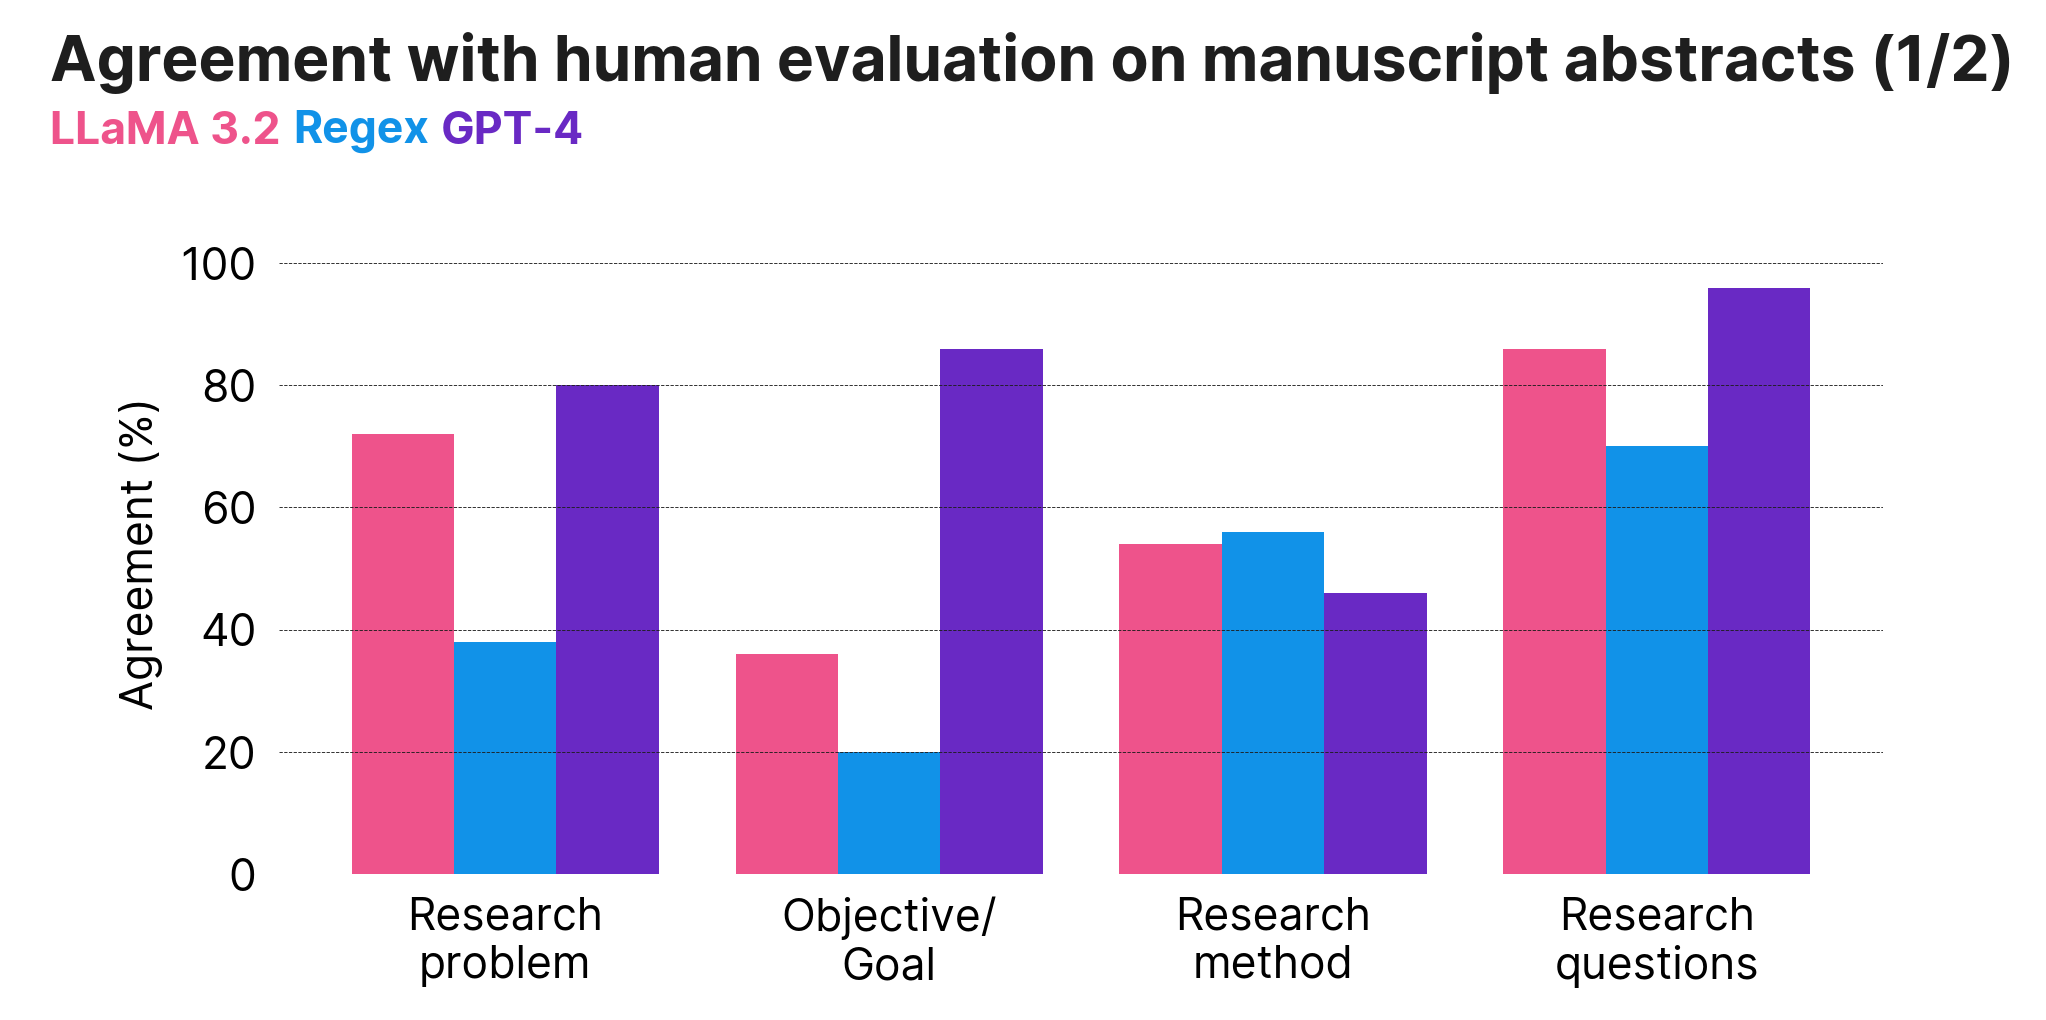
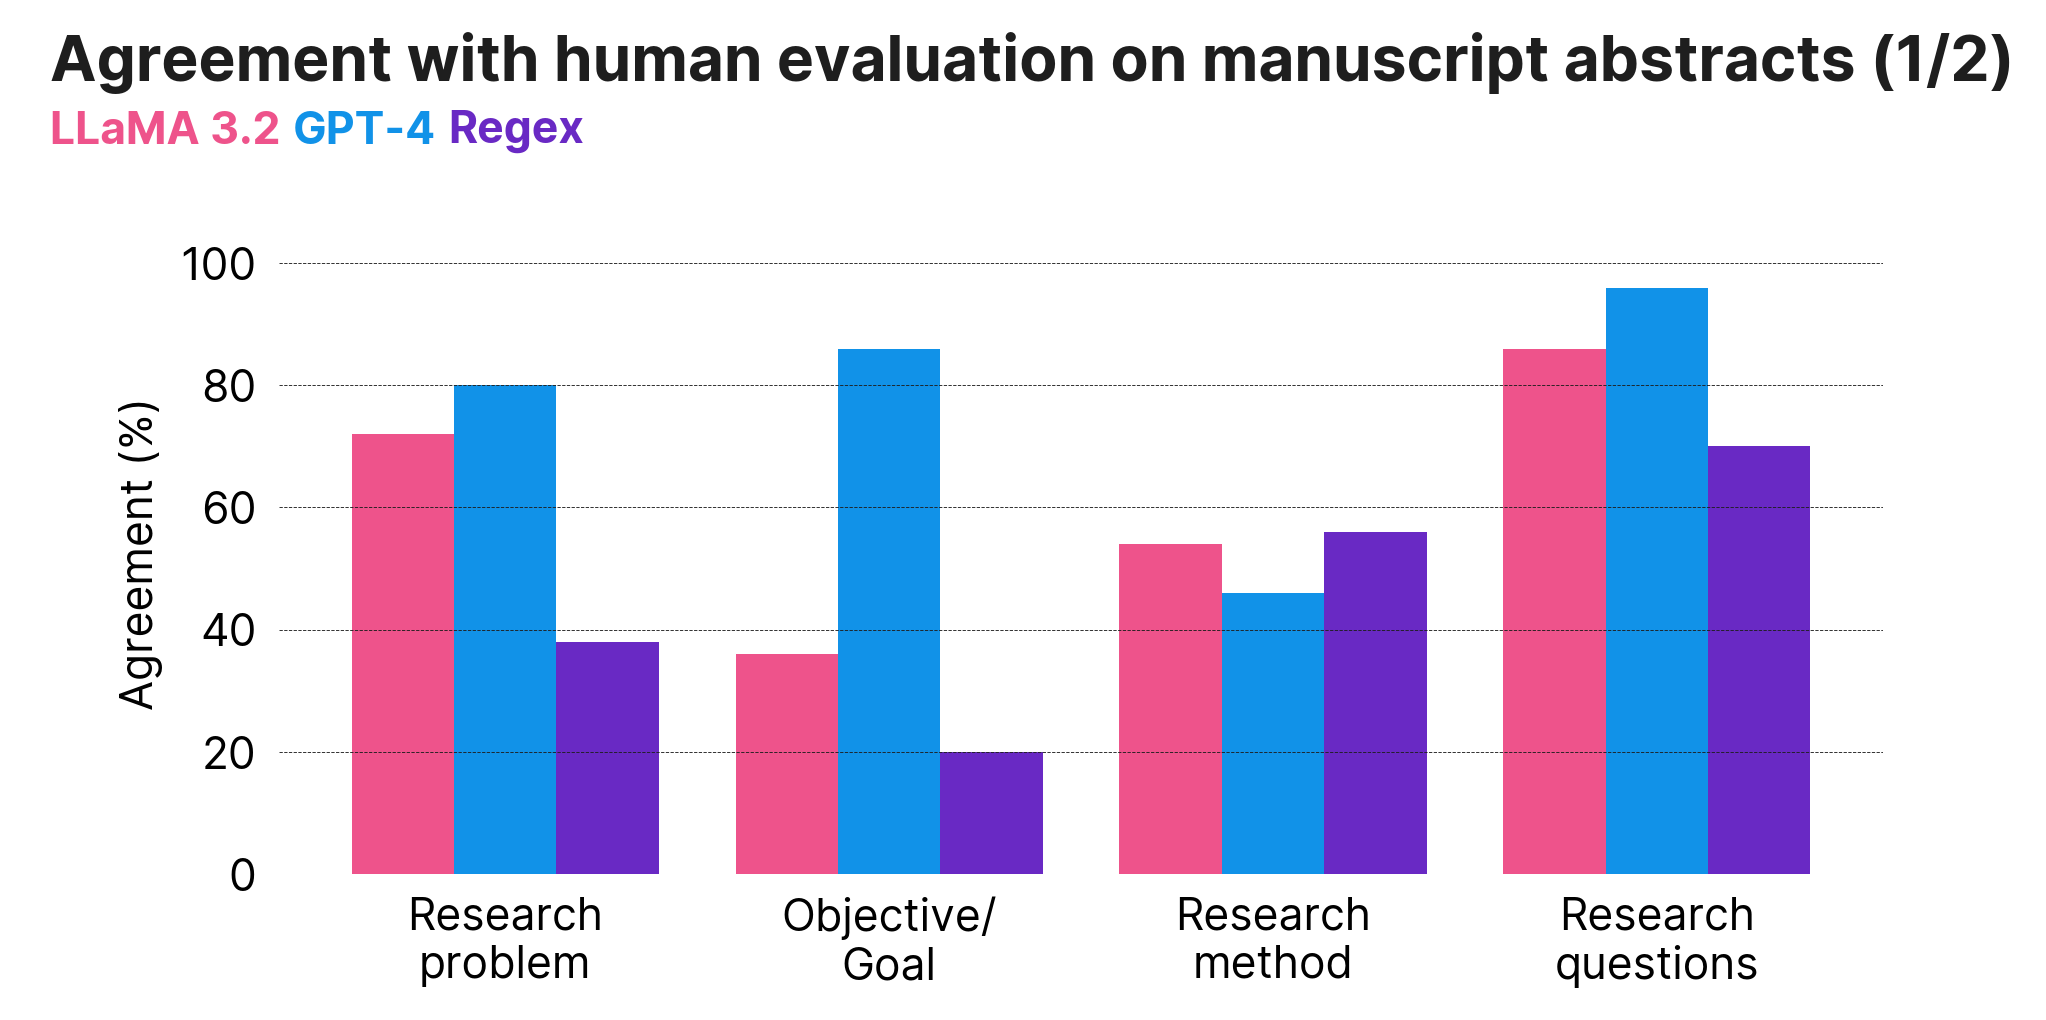
re-add agreement barplots, fix docstrings

diff --git a/src/reproscreener/colors.py b/src/reproscreener/colors.py
@@ -225,31 +225,3 @@ ALERT_DARK = [
     "#f1c21b",  # Yellow 30
     "#24a148"   # Green 50
 ]
-
-# ===== METRIC GROUPING COLORS =====
-
-# Color mappings for metric groups using Carbon Palette 3-color option 1
-METRIC_GROUP_COLORS_LIGHT = {
-    "Method": "#a56eff",    # Purple 50
-    "Data": "#005d5d",      # Teal 70  
-    "Experiment": "#9f1853" # Magenta 70
-}
-
-METRIC_GROUP_COLORS_DARK = {
-    "Method": "#8a3ffc",    # Purple 60
-    "Data": "#08bdba",      # Teal 40
-    "Experiment": "#ff7eb6" # Magenta 40
-}
-
-# ===== CONVENIENCE MAPPINGS =====
-
-# For backwards compatibility with existing code
-carbon_palette_1 = {
-    "LLaMA 3.2": CATEGORICAL_3_LIGHT_OPTION_1[0],  # Purple 50
-    "Regex": CATEGORICAL_3_LIGHT_OPTION_1[1],      # Teal 70
-    "GPT-4": CATEGORICAL_3_LIGHT_OPTION_1[2]       # Magenta 70
-}
-
-# Quick access to commonly used palettes
-CARBON_3_LIGHT_1 = CATEGORICAL_3_LIGHT_OPTION_1
-CARBON_3_DARK_1 = CATEGORICAL_3_DARK_OPTION_1

diff --git a/docs/docstrings.md b/docs/docstrings.md
@@ -14,7 +14,7 @@ It can:
 - Detect external links such as source-code or data repositories contained in the manuscript.
 - Return the results as a convenient `pandas.DataFrame`.
 
-::: reproscreener.paper_analyzer
+::: reproscreener.analysis.paper_analyzer
     options:
       show_source: false
       heading_level: 3
@@ -30,7 +30,7 @@ Its main tasks are:
 - Parsing the project's `README` for sections that describe installation or requirements.
 - Aggregating the findings into a tabular report.
 
-::: reproscreener.repo_analyzer
+::: reproscreener.analysis.repo_analyzer
     options:
       show_source: false
       heading_level: 3
@@ -40,7 +40,7 @@ Its main tasks are:
 The `keywords` module generates the lists of keywords/regular-expression patterns that are used by the analyser modules to identify important concepts inside paper text.
 Currently it implements the metrics from [@bhaskarReproscreenerLeveragingLLMs2024].
 
-::: reproscreener.keywords
+::: reproscreener.analysis.keywords
     options:
       show_source: false
       heading_level: 3 